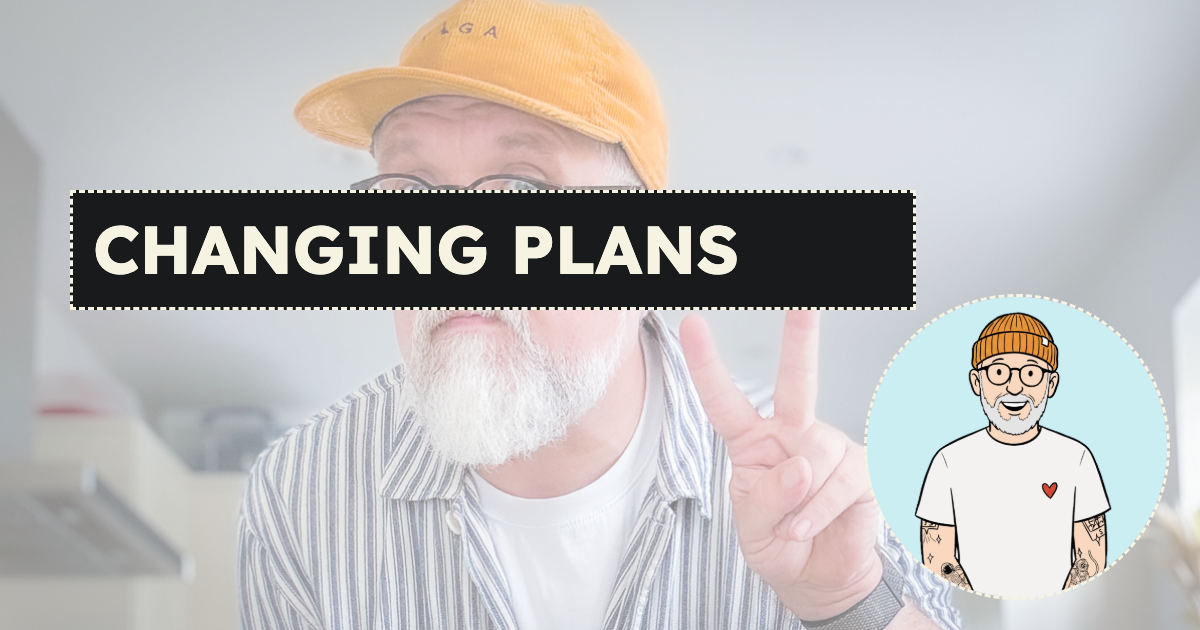
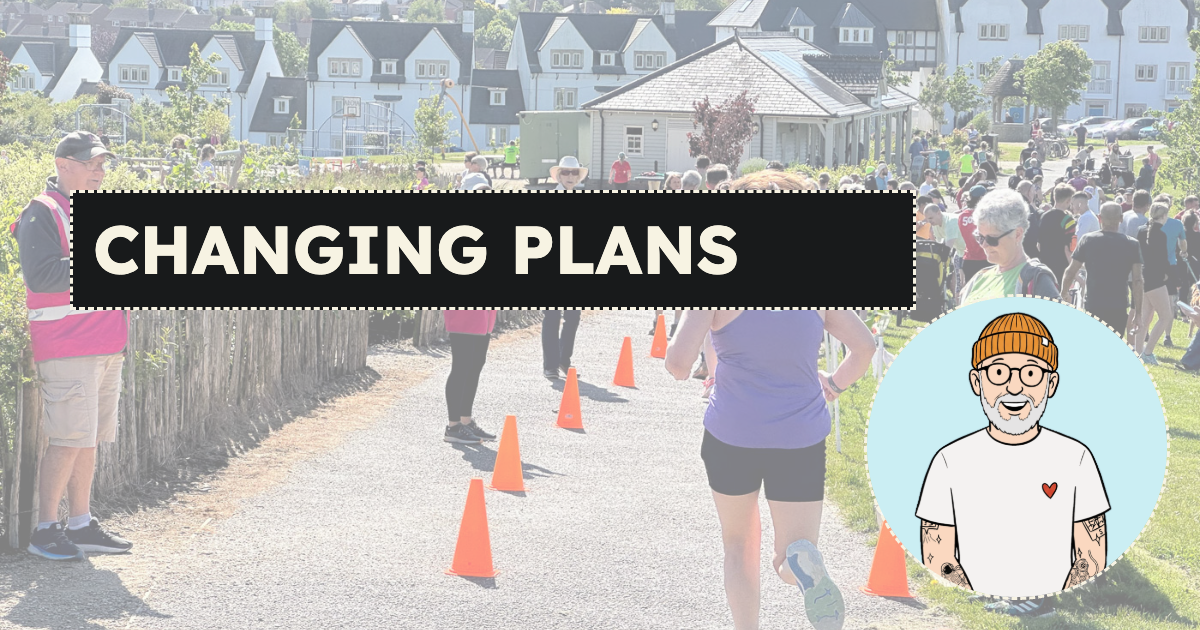
updates to OG scripts and content schema for featureImage

diff --git a/src/scripts/image-generation/generate-preview-images.ts b/src/scripts/image-generation/generate-preview-images.ts
@@ -21,6 +21,37 @@ if (ogLogoPath && fs.existsSync(ogLogoPath)) {
     ext === 'svg' ? 'image/svg+xml' : `image/${ext === 'jpg' ? 'jpeg' : ext}`;
   ogLogoBase64 = `data:${mimeType};base64,${fs.readFileSync(ogLogoPath).toString('base64')}`;
 }
+
+function stripQueryAndHash(inputPath: string): string {
+  return decodeURIComponent(inputPath.split('?')[0].split('#')[0]).trim();
+}
+
+function resolveContentImagePath(
+  rawPath: string,
+  contentDir: string,
+): string | null {
+  const sanitized = stripQueryAndHash(rawPath).replace(/\\/g, '/');
+  if (!sanitized) return null;
+
+  if (sanitized.startsWith('../../assets/')) {
+    return path.join(
+      process.cwd(),
+      'src/assets',
+      sanitized.replace(/^\.\.\/\.\.\/assets\//, ''),
+    );
+  }
+
+  if (sanitized.startsWith('/src/assets/')) {
+    return path.join(process.cwd(), sanitized.slice(1));
+  }
+
+  if (sanitized.startsWith('/')) {
+    return path.join(process.cwd(), sanitized.slice(1));
+  }
+
+  return path.join(contentDir, sanitized);
+}
+
 const siteUrl = config.siteUrl;
 const POSTS_DIR = path.join(process.cwd(), 'src/content/posts');
 const PAGES_DIR = path.join(process.cwd(), 'src/content/pages');
@@ -51,10 +82,14 @@ async function getPosts() {
       : file.replace(/\.(md|mdx)$/, '');
     // Use slug frontmatter if present, else fallback to filename
     const id = data.slug ? String(data.slug) : file.replace(/\.(md|mdx)$/, '');
+    const featureImagePath = data.featureImage
+      ? String(data.featureImage)
+      : null;
     // Find first image in markdown body
     const imageMatch = body.match(/!\[[^\]]*\]\(([^)]+)\)/);
-    const imagePath = imageMatch ? imageMatch[1] : null;
-    return { id, title, imagePath };
+    const firstBodyImagePath = imageMatch ? imageMatch[1] : null;
+    const imagePath = featureImagePath || firstBodyImagePath;
+    return { id, title, imagePath, dir };
   });
 }
 
@@ -89,24 +124,8 @@ async function generatePreviewImages() {
     // Determine which image to use as background
     let bgBase64 = null;
     if (post.imagePath) {
-      // Try to resolve the image path relative to the post file
-      let resolvedPath = post.imagePath;
-      if (resolvedPath.startsWith('../../assets/')) {
-        // Convert ../../assets/foo.jpg (relative to post) to src/assets/foo.jpg (project root)
-        resolvedPath = path.join(
-          process.cwd(),
-          'src/assets',
-          resolvedPath.replace(/^\.\.\/\.\.\/assets\//, ''),
-        );
-      } else if (resolvedPath.startsWith('/src/assets/')) {
-        resolvedPath = path.join(process.cwd(), resolvedPath.slice(1));
-      } else if (resolvedPath.startsWith('/')) {
-        resolvedPath = path.join(process.cwd(), resolvedPath.slice(1));
-      } else {
-        // fallback: relative to post file
-        resolvedPath = path.join(POSTS_DIR, resolvedPath);
-      }
-      if (fs.existsSync(resolvedPath)) {
+      const resolvedPath = resolveContentImagePath(post.imagePath, post.dir);
+      if (resolvedPath && fs.existsSync(resolvedPath)) {
         const ext = path.extname(resolvedPath).toLowerCase().replace('.', '');
         const mimeType =
           ext === 'svg'

diff --git a/src/scripts/image-generation/generate-og-images.ts b/src/scripts/image-generation/generate-og-images.ts
@@ -33,6 +33,36 @@ if (ogLogoPath && fs.existsSync(ogLogoPath)) {
   ogLogoBase64 = `data:${mimeType};base64,${fs.readFileSync(ogLogoPath).toString('base64')}`;
 }
 
+function stripQueryAndHash(inputPath: string): string {
+  return decodeURIComponent(inputPath.split('?')[0].split('#')[0]).trim();
+}
+
+function resolveContentImagePath(
+  rawPath: string,
+  contentDir: string,
+): string | null {
+  const sanitized = stripQueryAndHash(rawPath).replace(/\\/g, '/');
+  if (!sanitized) return null;
+
+  if (sanitized.startsWith('../../assets/')) {
+    return path.join(
+      process.cwd(),
+      'src/assets',
+      sanitized.replace(/^\.\.\/\.\.\/assets\//, ''),
+    );
+  }
+
+  if (sanitized.startsWith('/src/assets/')) {
+    return path.join(process.cwd(), sanitized.slice(1));
+  }
+
+  if (sanitized.startsWith('/')) {
+    return path.join(process.cwd(), sanitized.slice(1));
+  }
+
+  return path.join(contentDir, sanitized);
+}
+
 async function getPosts() {
   const postFiles = fs
     .readdirSync(POSTS_DIR)
@@ -54,10 +84,14 @@ async function getPosts() {
       : file.replace(/\.(md|mdx)$/, '');
     // Use slug frontmatter if present, else fallback to filename
     const id = data.slug ? String(data.slug) : file.replace(/\.(md|mdx)$/, '');
+    const featureImagePath = data.featureImage
+      ? String(data.featureImage)
+      : null;
     // Find first image in markdown body
     const imageMatch = body.match(/!\[[^\]]*\]\(([^)]+)\)/);
-    const imagePath = imageMatch ? imageMatch[1] : null;
-    return { id, title, imagePath };
+    const firstBodyImagePath = imageMatch ? imageMatch[1] : null;
+    const imagePath = featureImagePath || firstBodyImagePath;
+    return { id, title, imagePath, dir };
   });
 }
 
@@ -106,24 +140,8 @@ async function generateOGImages() {
     // Determine which image to use as background
     let bgBase64 = null;
     if (post.imagePath) {
-      // Try to resolve the image path relative to the post file
-      let resolvedPath = post.imagePath;
-      if (resolvedPath.startsWith('../../assets/')) {
-        // Convert ../../assets/foo.jpg (relative to post) to src/assets/foo.jpg (project root)
-        resolvedPath = path.join(
-          process.cwd(),
-          'src/assets',
-          resolvedPath.replace(/^\.\.\/\.\.\/assets\//, ''),
-        );
-      } else if (resolvedPath.startsWith('/src/assets/')) {
-        resolvedPath = path.join(process.cwd(), resolvedPath.slice(1));
-      } else if (resolvedPath.startsWith('/')) {
-        resolvedPath = path.join(process.cwd(), resolvedPath.slice(1));
-      } else {
-        // fallback: relative to post file
-        resolvedPath = path.join(POSTS_DIR, resolvedPath);
-      }
-      if (fs.existsSync(resolvedPath)) {
+      const resolvedPath = resolveContentImagePath(post.imagePath, post.dir);
+      if (resolvedPath && fs.existsSync(resolvedPath)) {
         const ext = path.extname(resolvedPath).toLowerCase().replace('.', '');
         const mimeType =
           ext === 'svg'

diff --git a/src/content.config.ts b/src/content.config.ts
@@ -9,6 +9,7 @@ const posts = defineCollection({
     slug: z.string(),
     pubDate: z.date(),
     description: z.string(),
+    featureImage: z.string().optional(),
     draft: z.boolean().optional(),
     tags: z.array(z.string()).optional(),
     category: z.enum(['Work', 'Rest', 'Play']),
@@ -22,6 +23,7 @@ const pages = defineCollection({
     slug: z.string(),
     pubDate: z.date().optional(),
     description: z.string().optional(),
+    featureImage: z.string().optional(),
     body: z.string().optional(),
   }),
 });

diff --git a/src/content/posts/changing-plans.md b/src/content/posts/changing-plans.md
@@ -6,7 +6,6 @@ draft: false
 pubDate: 2025-08-03
 description: Posting about updated plans for my Birthday at the end of the month. A boy just wants to have fun, and this is how I intend to celebrate this year.
 tags: ['birthday', 'walking', 'plans', 'challenge', 'invite', 'friends']
-
 ---
 
 Okay, so I [previously posted](https://hellostu.xyz/posts/46-before-46/) about challenging myself to a 46km walk at the end of August for my Birthday, and a few lovely folks showed an interest in tagging along. Thank you! I now need to let you all know that I've changed my mind and decided against it. Sorry!
